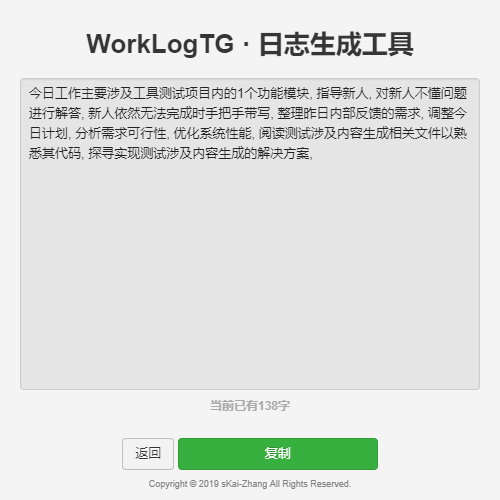
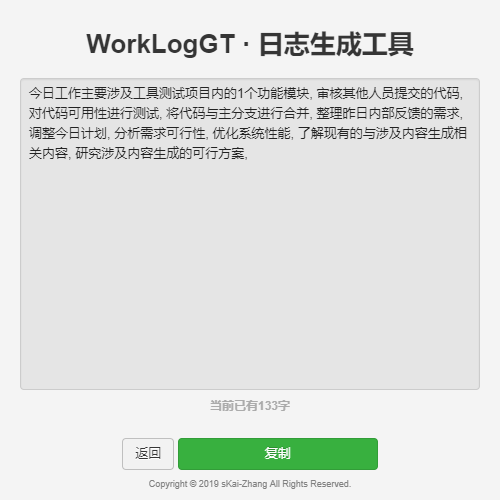
更新错误标题

Changed region(s): [[0.06, 0.15, 0.93, 0.33], [0.39, 0.06, 0.48, 0.12]]

diff --git a/page.html b/page.html
@@ -38,15 +38,15 @@
 
 <body>
 
-    <h1>WorkLogTG · 日志生成工具</h1>
+    <h1>WorkLogGT · 日志生成工具</h1>
     <div id="Model-A" style="background-color: #F4F4F4;">
         <div class="panel">
             <div class="panel-body">
-                <div class="input-group" style="">
+                <div class="input-group m-b-20">
                     <span class="input-group-addon">项目名称</span>
                     <input type="text" class="form-control" id="ProjectName">
                 </div>
-                <div class="input-group" style="margin-bottom: 20px;">
+                <div class="input-group m-b-20">
                     <span class="input-group-addon">个人情况</span>
                     <select class="form-control" id="ProjectIdentity">
                         <option value="0">选择身份</option>
